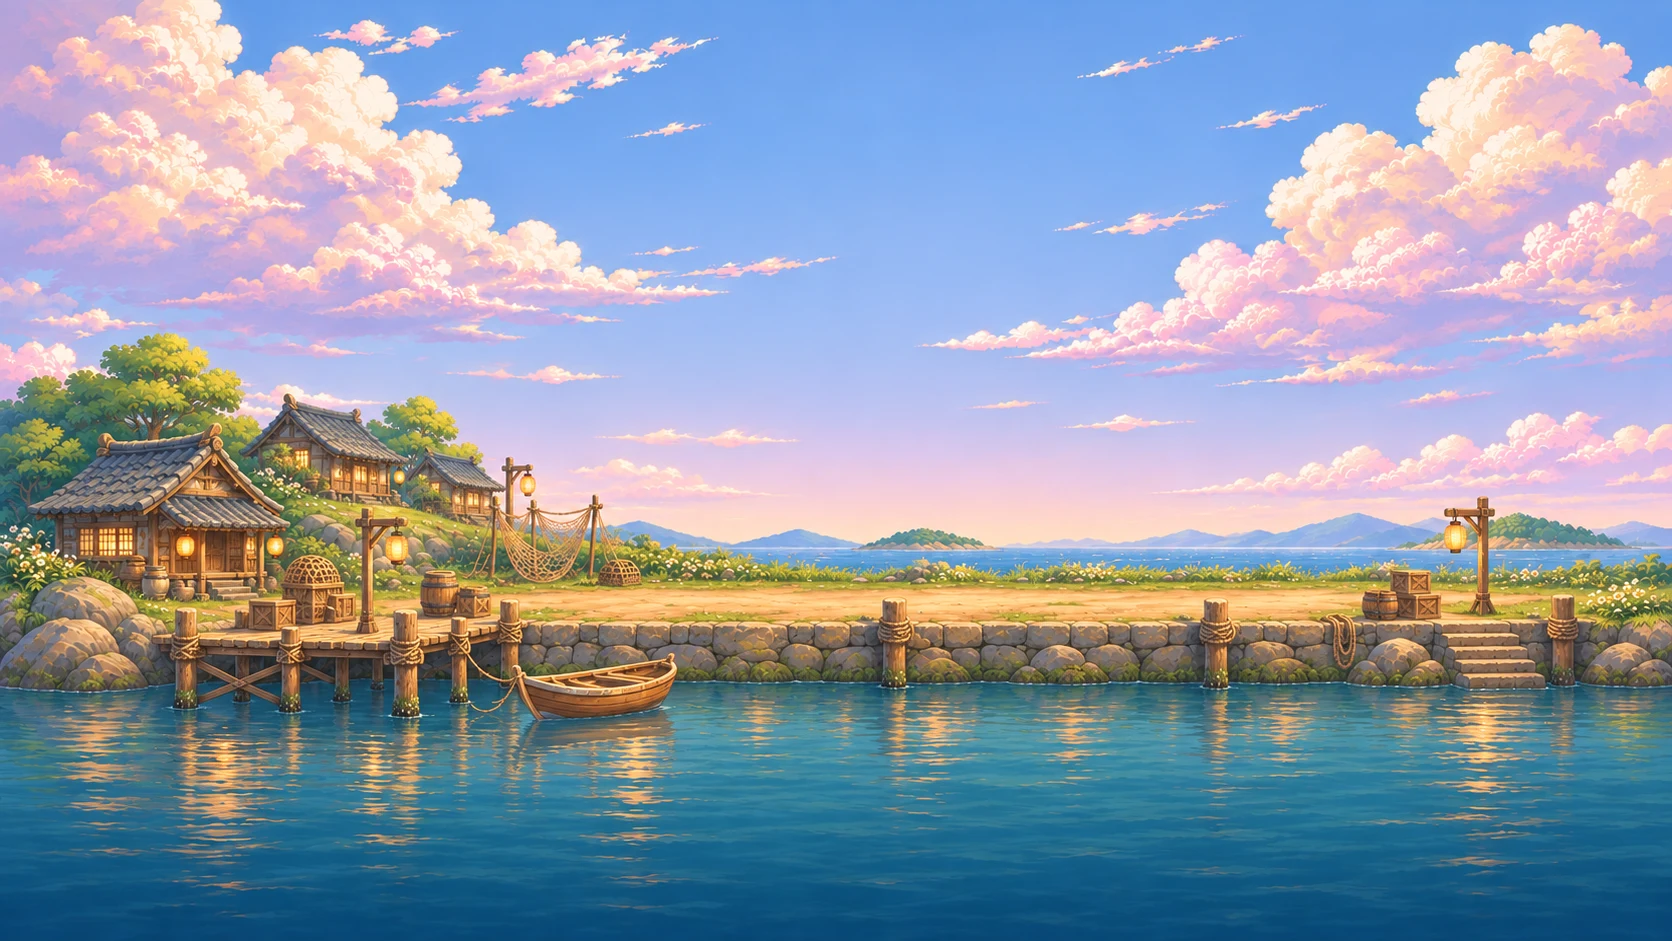
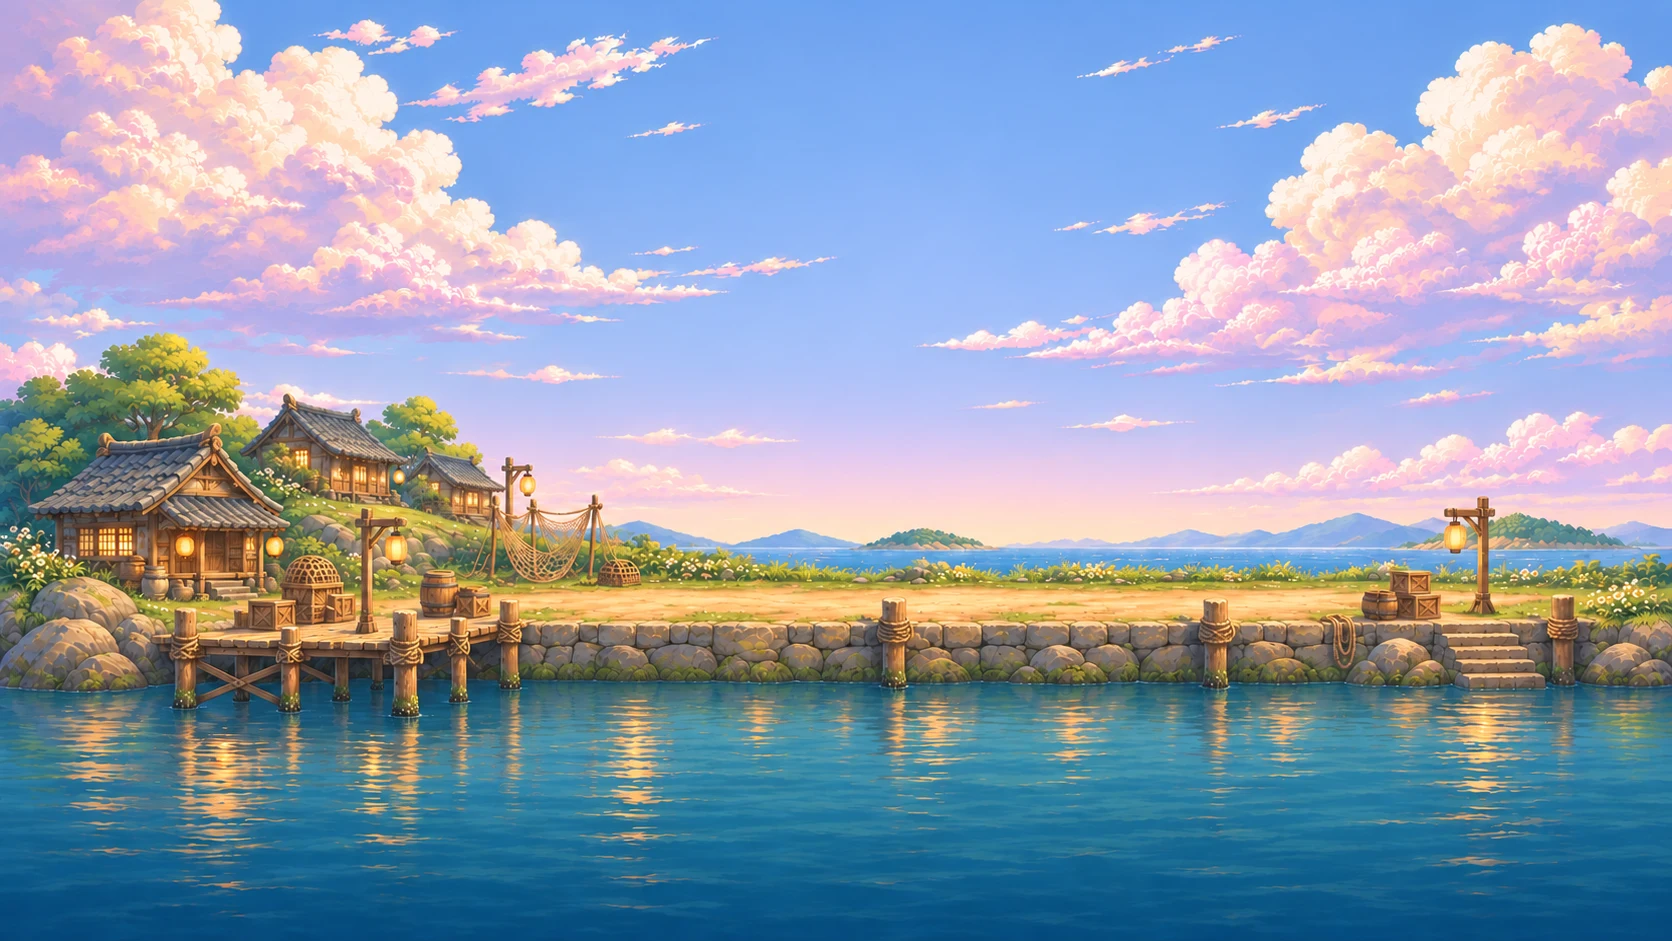
항구 배경의 나룻배를 지우고 내 배를 부두 옆에, 1~7번 해역 하늘에 숨은 흔적
- 항구 배경 5단계: 부두의 나룻배를 지운 그림으로 교체, 내 배 8단계를 항구 그림체로 다시 받아 더 크게 놓았다
- 해역 하늘 1~7: 한 곳씩만 고친 그림으로 교체 (색은 원래 그림에 줄마다 맞춘다)

Claude-Session: https://claude.ai/code/session_0142yqQtSepe3ngremP8BMYq

diff --git a/src/harbor.js b/src/harbor.js
@@ -213,7 +213,7 @@ export function drawHarbor(ctx, g) {
   // 정박한 내 배
   // 장비 외형(배): 항구에서는 단계마다 확실하게 커지고 화려해진다
   const bt8 = Math.min(8, Math.floor(e.gear.boat / 10) + 1);
-  if (hasSprite('h_boat_big_' + bt8)) { const b = sprite('h_boat_big_' + bt8); ctx.imageSmoothingEnabled = true; ctx.drawImage(b.img, 455 - b.w / 2, 331 - b.h + Math.sin(t * 1.3) * 1 + b.h * 0.06, b.w, b.h); }
+  if (hasSprite('h_boat_big_' + bt8)) { const b = sprite('h_boat_big_' + bt8); ctx.imageSmoothingEnabled = true; ctx.drawImage(b.img, 160, 314 - b.h + Math.sin(t * 1.3) * 1 + b.h * 0.05, b.w, b.h); }      // 부두 옆 물 위에 매여 있다 (배경의 나룻배가 있던 쪽). 가게와 이름표를 가리지 않는 높이
   else if (hasSprite('c_boat_1')) { const b = sprite('c_boat_1'); ctx.drawImage(b.img, W - 150, 262 - b.h + Math.sin(t * 1.3) * 0.8, b.w, b.h); }
   // 마을 이름
   const rb = sprite('h_ribbon'), rw = 150, rh = rw * rb.h / rb.w;

diff --git a/tools/slice_ui.py b/tools/slice_ui.py
@@ -100,17 +100,31 @@ def pack(items, file, manifest, width=2048, pad=2):
 
 def run(manifest):
     # 해역 배경: 하늘은 그대로, 물속은 위쪽의 수면 일렁임(올려다본 구도)을 잘라 낸다
-    for n in range(2, 9):
+    def match_tone(new, old):
+        """고친 그림의 색을 원래 그림에 맞춘다: 가로 줄마다 밝기·색의 평균과 퍼짐을 원래 그림과 같게 (GPT가 다시 그리며 생긴 색 차이를 없앤다)"""
+        A = np.array(old.resize(new.size, Image.LANCZOS)).astype(float); B = np.array(new).astype(float)
+        def smooth(v, k=41):
+            pad = np.pad(v, ((k // 2, k // 2), (0, 0)), mode='edge'); ker = np.ones(k) / k
+            return np.stack([np.convolve(pad[:, c], ker, mode='valid') for c in range(v.shape[1])], axis=1)
+        ma, mb = smooth(A.mean(axis=1)), smooth(B.mean(axis=1)); sa, sb = smooth(A.std(axis=1)), smooth(B.std(axis=1))
+        out = (B - mb[:, None, :]) * (sa / np.maximum(sb, 1e-3))[:, None, :] + ma[:, None, :]
+        return Image.fromarray(np.clip(out, 0, 255).astype(np.uint8))
+    for n in range(1, 9):
         for kind, top in (('sky', 0.0), ('sea', 0.2)):
-            p = RAW / f'c_{kind}_{n}.png'
-            if (RAW / f'c_{kind}_{n}b.png').exists(): p = RAW / f'c_{kind}_{n}b.png'      # 숨은 흔적을 넣어 고친 그림이 있으면 그것을 쓴다
+            base = RAW / ('c_sky.png' if (n, kind) == (1, 'sky') else f'c_{kind}_{n}.png'); p = base
+            edited = RAW / f'c_{kind}_{n}b.png'
+            if n == 1 and not edited.exists(): continue                  # 1번 해역의 원래 그림은 build_assets.py 가 만든다
             if not p.exists(): continue
-            im = Image.open(p).convert('RGB'); im = im.crop((0, round(im.height * top), im.width, im.height))
+            im = Image.open(p).convert('RGB')
+            if edited.exists(): im = match_tone(Image.open(edited).convert('RGB'), im)      # 숨은 흔적을 넣어 고친 그림이 있으면 그것을 쓴다 (색은 원래 그림에 맞춰서)
+            im = im.crop((0, round(im.height * top), im.width, im.height))
             if im.width > 1920: im = im.resize((1920, round(im.height * 1920 / im.width)), Image.LANCZOS)
-            im.save(OUT / f'c_{kind}_{n}.webp', 'WEBP', quality=88, method=4)
-            manifest[f'c_{kind}_{n}'] = dict(file=f'c_{kind}_{n}.webp', w=640, h=round(640 * im.height / im.width, 2), smooth=True)
+            key = 'c_sky' if (n, kind) == (1, 'sky') else f'c_{kind}_{n}'
+            im.save(OUT / f'{key}.webp', 'WEBP', quality=88, method=4)
+            manifest[key] = dict(file=f'{key}.webp', w=640, h=round(640 * im.height / im.width, 2), smooth=manifest.get(key, {}).get('smooth', True))
     for n in range(1, 6):
         p = RAW / f'h_town_{n}.png'
+        if (RAW / f'h_town_{n}b.png').exists(): p = RAW / f'h_town_{n}b.png'      # 부두의 나룻배를 지운 그림 (그 자리에 내 배를 놓는다)
         if not p.exists(): continue
         im = Image.open(p).convert('RGB'); im.save(OUT / f'h_town_{n}.webp', 'WEBP', quality=88, method=4)
         manifest[f'h_town_{n}'] = dict(file=f'h_town_{n}.webp', w=640, h=360, smooth=True)

diff --git a/tools/slice_gear.py b/tools/slice_gear.py
@@ -131,18 +131,19 @@ def run(manifest):
     def sc(i, p, bs):
         w = 26 * p.shape[1] / (bs[7][2] - bs[7][0]); return dict(w=round(w, 2), h=round(w * p.shape[0] / p.shape[1], 2)), 420
     strips('c_scarf_set', 'c_scarf', items, extra, True, sc)
-    # 항구에 매어 둔 배: 4칸 x 2줄. 가장 큰 것(8단계)이 화면에서 폭 96
-    if (RAW / 'h_boats.png').exists():
-        a = rgba('h_boats'); m = a[..., 3] > 40; boxes = []
+    # 항구에 매어 둔 내 배 8단계. 1단계가 원래 배경에 그려져 있던 나룻배만 한 크기(화면에서 폭 62)보다 조금 크게, 건물과 어울리게 폭 80으로 맞춘다.
+    src = 'h_boats2' if (RAW / 'h_boats2.png').exists() else 'h_boats'
+    if (RAW / (src + '.png')).exists():
+        a = rgba(src); m = a[..., 3] > 40; boxes = []
         for r0, r1 in runs(m.sum(axis=1), 6):
             for c0, c1 in runs(m[r0:r1].sum(axis=0), 10):
                 x0, y0, x1, y1 = bbox(m[r0:r1, c0:c1]); boxes.append((c0 + x0, r0 + y0, c0 + x1, r0 + y1))
         assert len(boxes) == 8, len(boxes)
-        w8 = boxes[7][2] - boxes[7][0]
+        k = 80 / (boxes[0][2] - boxes[0][0])
         for i, (x0, y0, x1, y1) in enumerate(boxes):
-            name = f'h_boat_big_{i + 1}'; im = Image.fromarray(a[y0:y1, x0:x1]); w = 96 * (x1 - x0) / w8
-            items.append((name, im)); extra[name] = dict(w=round(w, 2), h=round(w * (y1 - y0) / (x1 - x0), 2), smooth=True)
-        print('h_boats: 8개')
+            name = f'h_boat_big_{i + 1}'; im = Image.fromarray(a[y0:y1, x0:x1])
+            items.append((name, im)); extra[name] = dict(w=round((x1 - x0) * k, 2), h=round((y1 - y0) * k, 2), smooth=True)
+        print(src + ': 8개', [extra[f'h_boat_big_{i + 1}']['w'] for i in range(8)], [extra[f'h_boat_big_{i + 1}']['h'] for i in range(8)])
     pack(items, extra, 'gear.webp', manifest)
 
 

diff --git a/ASSET_QUEUE.md b/ASSET_QUEUE.md
@@ -381,16 +381,16 @@
 | 359 | `c_scarf_set` | 장비 외형: 바람에 날리는 목도리 8단계 (복장 장비) | DONE | 통과 |
 | 360 | `h_boats` | 장비 외형: 항구에 매어 둔 배 8단계 (크기 차이가 확실하게) | DONE | 통과 |
 | 361 | `c_chest` | 바다의 답례: 물에 뜬 보물상자 (닫힘·열림) | CANCEL | 보물상자 연출을 빼기로 했다 |
-| 362 | `h_town_1b` | 항구 배경 1단계(작은 어촌)에서 부두의 나룻배만 지우기 (나머지는 그대로) | TODO | 그 자리에 단계별 내 배를 놓는다 |
-| 363 | `h_town_2b` | 항구 배경 2단계(포구 마을)에서 부두의 나룻배만 지우기 (나머지는 그대로) | TODO | 그 자리에 단계별 내 배를 놓는다 |
-| 364 | `h_town_3b` | 항구 배경 3단계(항구 마을)에서 부두의 나룻배만 지우기 (나머지는 그대로) | TODO | 그 자리에 단계별 내 배를 놓는다 |
-| 365 | `h_town_4b` | 항구 배경 4단계(큰 항구)에서 부두의 나룻배만 지우기 (나머지는 그대로) | TODO | 그 자리에 단계별 내 배를 놓는다 |
-| 366 | `h_town_5b` | 항구 배경 5단계(환상의 항구)에서 부두의 나룻배만 지우기 (나머지는 그대로) | TODO | 그 자리에 단계별 내 배를 놓는다 |
-| 367 | `h_boats2` | 항구에 매어 둔 내 배 8단계 (항구 그림체에 맞게, 더 크게, 낮고 넓게) | TODO | 360번은 그림체와 크기가 항구와 안 맞아 다시 그린다 |
-| 368 | `c_sky_1b` | 숨은 흔적: 1번 해역(햇살 연안) 하늘에서 한 곳만 고치기 — 먼 산 능선에 가는 기둥 하나 | TODO | 나머지는 그대로. 8번보다 더 은근하게 |
-| 369 | `c_sky_2b` | 숨은 흔적: 2번 해역(산호초 열대) 하늘에서 한 곳만 고치기 — 작은 섬의 야자수 사이에 기운 표지판 윤곽 | TODO | 나머지는 그대로. 8번보다 더 은근하게 |
-| 370 | `c_sky_3b` | 숨은 흔적: 3번 해역(안개 군도) 하늘에서 한 곳만 고치기 — 안개 속 먼 언덕 뒤로 큰 바퀴의 윗부분 | TODO | 나머지는 그대로. 8번보다 더 은근하게 |
-| 371 | `c_sky_4b` | 숨은 흔적: 4번 해역(원양 대해) 하늘에서 한 곳만 고치기 — 수평선에 일정한 간격의 짧은 기둥 셋 | TODO | 나머지는 그대로. 8번보다 더 은근하게 |
-| 372 | `c_sky_5b` | 숨은 흔적: 5번 해역(극지 빙해) 하늘에서 한 곳만 고치기 — 얼음 절벽 속에 갇힌 반듯한 그림자 | TODO | 나머지는 그대로. 8번보다 더 은근하게 |
-| 373 | `c_sky_6b` | 숨은 흔적: 6번 해역(화산 해역) 하늘에서 한 곳만 고치기 — 작은 화산 능선에 곧은 굴뚝 하나 | TODO | 나머지는 그대로. 8번보다 더 은근하게 |
-| 374 | `c_sky_7b` | 숨은 흔적: 7번 해역(심연 해구) 하늘에서 한 곳만 고치기 — 바위 첨탑 하나에 줄지어 켜진 작은 불빛 | TODO | 나머지는 그대로. 8번보다 더 은근하게 |
+| 362 | `h_town_1b` | 항구 배경 1단계(작은 어촌)에서 부두의 나룻배만 지우기 (나머지는 그대로) | DONE | 통과 |
+| 363 | `h_town_2b` | 항구 배경 2단계(포구 마을)에서 부두의 나룻배만 지우기 (나머지는 그대로) | DONE | 통과 |
+| 364 | `h_town_3b` | 항구 배경 3단계(항구 마을)에서 부두의 나룻배만 지우기 (나머지는 그대로) | DONE | 통과 |
+| 365 | `h_town_4b` | 항구 배경 4단계(큰 항구)에서 부두의 나룻배만 지우기 (나머지는 그대로) | DONE | 통과 |
+| 366 | `h_town_5b` | 항구 배경 5단계(환상의 항구)에서 부두의 나룻배만 지우기 (나머지는 그대로) | DONE | 통과 |
+| 367 | `h_boats2` | 항구에 매어 둔 내 배 8단계 (항구 그림체에 맞게, 더 크게, 낮고 넓게) | DONE | 통과 |
+| 368 | `c_sky_1b` | 숨은 흔적: 1번 해역(햇살 연안) 하늘에서 한 곳만 고치기 — 먼 산 능선에 가는 기둥 하나 | DONE | 통과 |
+| 369 | `c_sky_2b` | 숨은 흔적: 2번 해역(산호초 열대) 하늘에서 한 곳만 고치기 — 작은 섬의 야자수 사이에 기운 표지판 윤곽 | DONE | 통과 |
+| 370 | `c_sky_3b` | 숨은 흔적: 3번 해역(안개 군도) 하늘에서 한 곳만 고치기 — 안개 속 먼 언덕 뒤로 큰 바퀴의 윗부분 | DONE | 통과 |
+| 371 | `c_sky_4b` | 숨은 흔적: 4번 해역(원양 대해) 하늘에서 한 곳만 고치기 — 수평선에 일정한 간격의 짧은 기둥 셋 | DONE | 통과. 색이 조금 달라져 와서 원래 그림의 색에 맞춰 쓴다 |
+| 372 | `c_sky_5b` | 숨은 흔적: 5번 해역(극지 빙해) 하늘에서 한 곳만 고치기 — 얼음 절벽 속에 갇힌 반듯한 그림자 | DONE | 통과 |
+| 373 | `c_sky_6b` | 숨은 흔적: 6번 해역(화산 해역) 하늘에서 한 곳만 고치기 — 작은 화산 능선에 곧은 굴뚝 하나 | DONE | 통과 |
+| 374 | `c_sky_7b` | 숨은 흔적: 7번 해역(심연 해구) 하늘에서 한 곳만 고치기 — 바위 첨탑 하나에 줄지어 켜진 작은 불빛 | DONE | 통과 |
